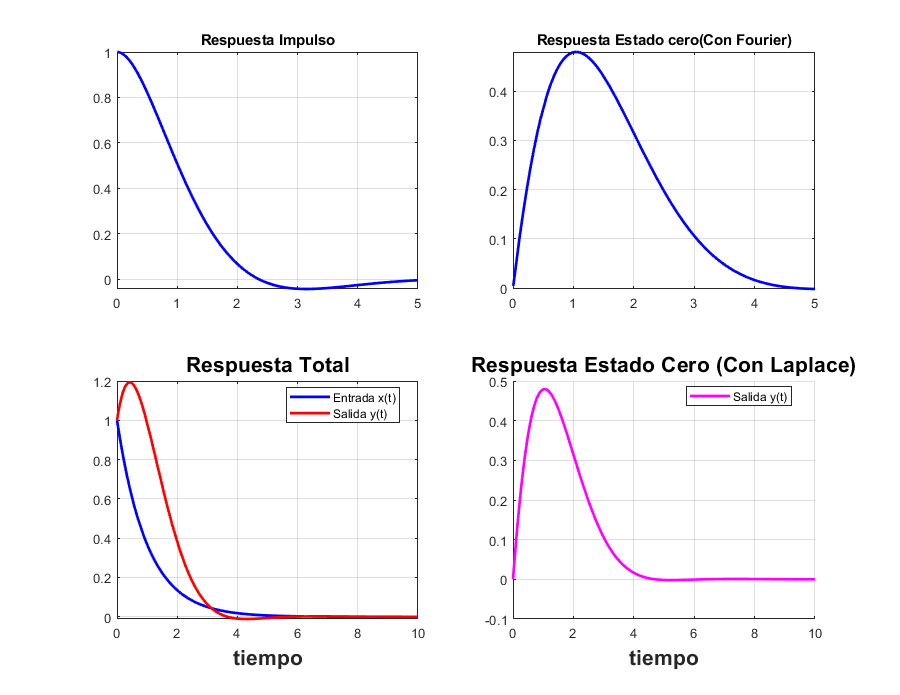
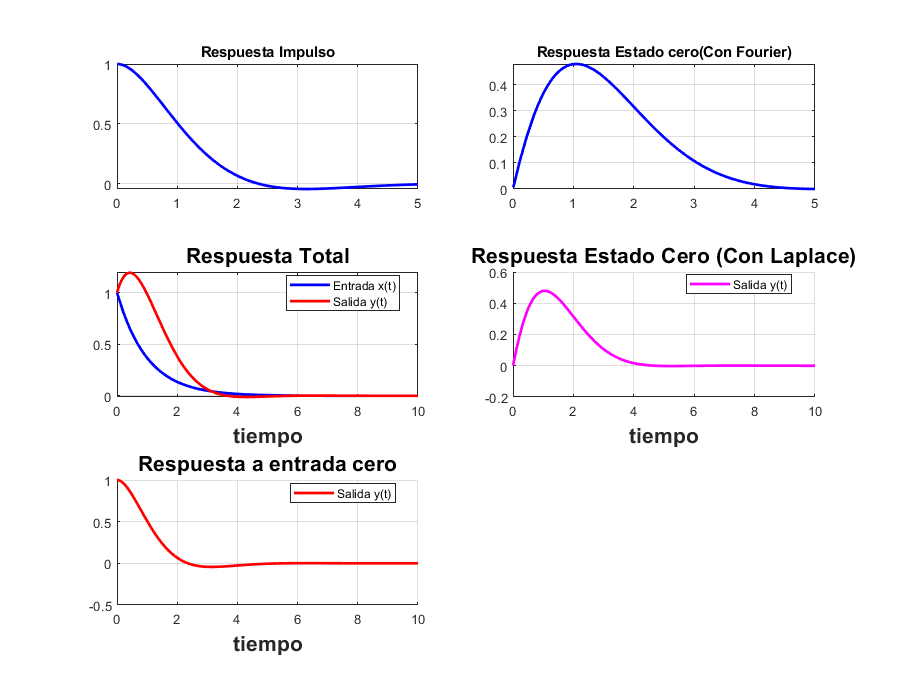
.

diff --git a/SySPrac06KarlaCordova_CristianAcosta.html b/SySPrac06KarlaCordova_CristianAcosta.html
@@ -6,7 +6,7 @@
    <!--
 This HTML was auto-generated from MATLAB code.
 To make changes, update the MATLAB code and republish this document.
-      --><title>Pr&aacute;ctica 6: Sistemas Diferenciales</title><meta name="generator" content="MATLAB 9.3"><link rel="schema.DC" href="http://purl.org/dc/elements/1.1/"><meta name="DC.date" content="2019-05-21"><meta name="DC.source" content="SySPrac06KarlaCordova_CristianAcosta.m"><style type="text/css">
+      --><title>Pr&aacute;ctica 6: Sistemas Diferenciales</title><meta name="generator" content="MATLAB 9.3"><link rel="schema.DC" href="http://purl.org/dc/elements/1.1/"><meta name="DC.date" content="2019-05-22"><meta name="DC.source" content="SySPrac06KarlaCordova_CristianAcosta.m"><style type="text/css">
 html,body,div,span,applet,object,iframe,h1,h2,h3,h4,h5,h6,p,blockquote,pre,a,abbr,acronym,address,big,cite,code,del,dfn,em,font,img,ins,kbd,q,s,samp,small,strike,strong,sub,sup,tt,var,b,u,i,center,dl,dt,dd,ol,ul,li,fieldset,form,label,legend,table,caption,tbody,tfoot,thead,tr,th,td{margin:0;padding:0;border:0;outline:0;font-size:100%;vertical-align:baseline;background:transparent}body{line-height:1}ol,ul{list-style:none}blockquote,q{quotes:none}blockquote:before,blockquote:after,q:before,q:after{content:'';content:none}:focus{outine:0}ins{text-decoration:none}del{text-decoration:line-through}table{border-collapse:collapse;border-spacing:0}
 
 html { min-height:100%; margin-bottom:1px; }
@@ -66,7 +66,7 @@ table td { padding:7px 5px; text-align:left; vertical-align:top; border:1px soli
 
 
 
-  </style></head><body><div class="content"><h1>Pr&aacute;ctica 6: Sistemas Diferenciales</h1><!--introduction--><p><b>Autores:</b></p><p><b>C&oacute;rdova Fern&aacute;ndez Karla Lilia, Acosta Villa Cristian Abraham.</b></p><p><b>SE&Ntilde;ALES Y SISTEMAS, Grupo 2TV1</b></p><!--/introduction--><h2>Contents</h2><div><ul><li><a href="#1">Funciones usadas en esta pr&aacute;ctica.</a></li><li><a href="#2">Programa para soluci&oacute;n de problemas diferenciales.</a></li><li><a href="#4">Respuesta a entrada y estado cero</a></li><li><a href="#5">Referencias.</a></li></ul></div><h2 id="1">Funciones usadas en esta pr&aacute;ctica.</h2><h2 id="2">Programa para soluci&oacute;n de problemas diferenciales.</h2><p>Ejemplo: resolver y^(2)+2y^(1)+2y=x^(1)+2x con y^(1)(0)=0 y(0)=0, x(0)=0, x(t)=exp(-t)u(t), para 5 segundos,</p><p>Con ayuda de Fourier:</p><pre class="codeinput">sympref(<span class="string">'HeavisideAtOrigin'</span>, 1);
+  </style></head><body><div class="content"><h1>Pr&aacute;ctica 6: Sistemas Diferenciales</h1><!--introduction--><p><b>Autores:</b></p><p><b>C&oacute;rdova Fern&aacute;ndez Karla Lilia, Acosta Villa Cristian Abraham.</b></p><p><b>SE&Ntilde;ALES Y SISTEMAS, Grupo 2TV1</b></p><!--/introduction--><h2>Contents</h2><div><ul><li><a href="#1">Funciones usadas en esta pr&aacute;ctica.</a></li><li><a href="#2">Programa para soluci&oacute;n de problemas diferenciales.</a></li><li><a href="#4">Respuesta a entrada y estado cero y entrada total.</a></li><li><a href="#6">Referencias.</a></li></ul></div><h2 id="1">Funciones usadas en esta pr&aacute;ctica.</h2><h2 id="2">Programa para soluci&oacute;n de problemas diferenciales.</h2><p>Ejemplo: resolver y^(2)+2y^(1)+2y=x^(1)+2x con y^(1)(0)=0 y(0)=0, x(0)=0, x(t)=exp(-t)u(t), para 5 segundos,</p><p>Con ayuda de Fourier:</p><pre class="codeinput">sympref(<span class="string">'HeavisideAtOrigin'</span>, 1);
 FT=0;
 RI=0;
 RE0=0;
@@ -80,11 +80,11 @@ hFig = figure(1);
 set(hFig, <span class="string">'Position'</span>, [0 0 900 900])
 axes1 = axes(<span class="string">'Parent'</span>,hFig,<span class="string">'FontWeight'</span>,<span class="string">'bold'</span>,<span class="string">'FontSize'</span>,16);
 tiempo=0:0.01:t0;
-subplot(2,2,1);
+subplot(3,2,1);
 fplot(RI,[0 t0],<span class="string">'b'</span>,<span class="string">'LineWidth'</span>,2)
 title(<span class="string">'Respuesta Impulso'</span>);
 grid <span class="string">on</span>
-subplot(2,2,2);
+subplot(3,2,2);
 fplot(RE0,[0 t0],<span class="string">'b'</span>,<span class="string">'LineWidth'</span>,2)
 title(<span class="string">'Respuesta Estado cero(Con Fourier)'</span>);
 grid <span class="string">on</span>
@@ -199,8 +199,9 @@ where
    #4 == exp(t (- 1 - i))
 
 
-</pre><h2 id="4">Respuesta a entrada y estado cero</h2><p>Para obtener la respuesta a estado cero, las condiciones iniciales tienen que ser igual a 0, es decir:</p><p><img src="SySPrac06KarlaCordova_CristianAcosta_eq16365273150764432466.png" alt="$$ y(0) = 0, y'(0) = 0 , y''(0) = 0 ... y^{n}(0) = 0 $$"></p><p>En este caso quedaria de la siguiente manera:</p><pre class="codeinput"><span class="keyword">function</span> laplace20161(a,b,ciy,cix,xi,t0)
+</pre><h2 id="4">Respuesta a entrada y estado cero y entrada total.</h2><p>Respuesta Estado cero</p><p>Para obtener la respuesta a estado cero, las condiciones iniciales tienen que ser igual a 0, es decir:</p><p><img src="SySPrac06KarlaCordova_CristianAcosta_eq16365273150764432466.png" alt="$$ y(0) = 0, y'(0) = 0 , y''(0) = 0 ... y^{n}(0) = 0 $$"></p><p>Respuesta Entrada cero</p><p>Por definici&oacute;n, la respuesta a entrada cero quiere decir que no tenemos ninguna entrada al sistema, por lo que quedar&iacute;a de la siguiente manera.</p><p><img src="SySPrac06KarlaCordova_CristianAcosta_eq05144310611940280709.png" alt="$$ y''(t)+2'y(t)+2y = 0 $$, con $$ y(0-) = 1 $$ y $$ y(0)=0 $$"></p><p>Respuesta Total</p><p>Para la respuesta total la entrada y/o las condiciones iniciales, deben ser diferentes de cero (No todas las condiciones deben ser diferentes a cero, basta con que una sea diferente para hablar de Respuesta Total, si es el caso).</p><pre class="codeinput"><span class="keyword">function</span> laplace20161(a,b,ciy,cix,xi,t0)
 
+<span class="comment">% Estado cero.</span>
 close <span class="string">all</span>
 tam2=size(a);
 tami2=size(b);
@@ -222,6 +223,8 @@ edi2=0;
        edi2=edi2-b(i)*(s^(i-1-k)*cix(k));
    <span class="keyword">end</span>
 <span class="keyword">end</span>
+mensaje(<span class="string">'1-. Estado cero'</span>)
+
 mensaje(<span class="string">'APLICAMOS TRANSFORMADA DE LAPLACE y subtituimos condiciones iniciales'</span>)
 
 pretty(edd2)
@@ -252,7 +255,7 @@ pretty(y2(t))
 dy(t)=diff(y2,t);
 ddy(t)=diff(dy,t);
 
-subplot(2,2,4)
+subplot(3,2,4)
 hold <span class="string">on</span>
 fplot(y2,[0,t0],<span class="string">'m'</span>,<span class="string">'LineWidth'</span>,2)
 legend(<span class="string">'Salida y(t)'</span>,<span class="string">'Location'</span>,<span class="string">'Best'</span>)
@@ -285,6 +288,9 @@ ciy=[1,0]
        edi=edi-b(i)*(s^(i-1-k)*cix(k));
    <span class="keyword">end</span>
 <span class="keyword">end</span>
+
+mensaje(<span class="string">'2-. Respuesta total'</span>)
+
 mensaje(<span class="string">'APLICAMOS TRANSFORMADA DE LAPLACE y subtituimos condiciones iniciales'</span>)
 
 pretty(edd)
@@ -309,20 +315,73 @@ pretty(edd)
 
 mensaje(<span class="string">'Aplicamos transformada inversa, asi la soluci&oacute;n es'</span>)
 disp(<span class="string">'y(t)='</span>)
-y(t)=ilaplace(edd);
-pretty(y(t))
+y3(t)=ilaplace(edd);
+pretty(y3(t))
 
-dy(t)=diff(y,t);
+dy(t)=diff(y3,t);
 ddy(t)=diff(dy,t);
-subplot(2,2,3)
+subplot(3,2,3)
 fplot(xi,[0, t0],<span class="string">'b'</span>,<span class="string">'LineWidth'</span>,2)
 
 hold <span class="string">on</span>
-fplot(y,[0,t0],<span class="string">'r'</span>,<span class="string">'LineWidth'</span>,2)
+fplot(y3,[0,t0],<span class="string">'r'</span>,<span class="string">'LineWidth'</span>,2)
 
 legend(<span class="string">'Entrada x(t)'</span>,<span class="string">'Salida y(t)'</span>,<span class="string">'Location'</span>,<span class="string">'Best'</span>)
 xlabel(<span class="string">'tiempo'</span>,<span class="string">'FontWeight'</span>,<span class="string">'bold'</span>,<span class="string">'FontSize'</span>,16)
 title(<span class="string">'Respuesta Total'</span>,<span class="string">'FontWeight'</span>,<span class="string">'bold'</span>,<span class="string">'FontSize'</span>,16)
+grid <span class="string">on</span>
+
+<span class="comment">% Entrada cero</span>
+<span class="comment">%</span>
+tam3=size(a);
+syms <span class="string">y(t)</span> <span class="string">Y(s)</span> <span class="string">x(t)</span> <span class="string">X(s)</span> <span class="string">Yy</span> <span class="string">fp</span>;
+syms <span class="string">edd</span> <span class="string">edi</span>
+edd3=0;
+edi3=0;
+
+<span class="keyword">for</span> i=1:tam3(2)
+   edd3=edd3+a(i)*s^(i-1)*Y(s);
+   <span class="keyword">for</span> k=1:i-1
+       edd3=edd3-a(i)*(s^(i-1-k)*ciy(k));
+   <span class="keyword">end</span>
+<span class="keyword">end</span>
+
+mensaje(<span class="string">'3-.Entrada Cero'</span>)
+
+mensaje(<span class="string">'APLICAMOS TRANSFORMADA DE LAPLACE y subtituimos condiciones iniciales'</span>)
+
+pretty(edd3)
+disp(<span class="string">'='</span>)
+
+mensaje(<span class="string">'SUBSTITUIMOS LA TRANSFORMADA DE LA ENTRADA'</span>)
+
+pretty(edd3)
+disp(<span class="string">'='</span>)
+
+mensaje(<span class="string">'DESPEJAMOS Y(s)'</span>)
+
+edd3=collect(edd3,Y(s));
+edd3=subs(edd3,Y(s),Yy);
+eq1=edd3==edi3;
+disp(<span class="string">'Y(s)='</span>)
+edd3=solve(eq1, Yy);
+pretty(edd3)
+
+mensaje(<span class="string">'Aplicamos transformada inversa, asi la soluci&oacute;n es'</span>)
+disp(<span class="string">'y(t)='</span>)
+y3(t)=ilaplace(edd3);
+pretty(y3(t))
+
+dy(t)=diff(y3,t);
+ddy(t)=diff(dy,t);
+subplot(3,2,5)
+
+hold <span class="string">on</span>
+fplot(y3,[0,t0],<span class="string">'r'</span>,<span class="string">'LineWidth'</span>,2)
+
+legend(<span class="string">'Salida y(t)'</span>,<span class="string">'Location'</span>,<span class="string">'Best'</span>)
+xlabel(<span class="string">'tiempo'</span>,<span class="string">'FontWeight'</span>,<span class="string">'bold'</span>,<span class="string">'FontSize'</span>,16)
+title(<span class="string">'Respuesta a entrada cero'</span>,<span class="string">'FontWeight'</span>,<span class="string">'bold'</span>,<span class="string">'FontSize'</span>,16)
 grid <span class="string">on</span>
 
 <span class="keyword">end</span>
@@ -333,6 +392,9 @@ disp(texto)
 disp( <span class="string">' '</span>)
 <span class="keyword">end</span>
 </pre><pre class="codeoutput"> 
+1-. Estado cero
+ 
+ 
 APLICAMOS TRANSFORMADA DE LAPLACE y subtituimos condiciones iniciales
  
                      2
@@ -373,6 +435,9 @@ ciy =
      1     0
 
  
+2-. Respuesta total
+ 
+ 
 APLICAMOS TRANSFORMADA DE LAPLACE y subtituimos condiciones iniciales
  
                          2
@@ -408,13 +473,45 @@ Aplicamos transformada inversa, asi la soluci&oacute;n es
 y(t)=
 exp(-t) + 2 exp(-t) sin(t)
 
+ 
+3-.Entrada Cero
+ 
+ 
+APLICAMOS TRANSFORMADA DE LAPLACE y subtituimos condiciones iniciales
+ 
+                         2
+2 Y(s) - s + 2 s Y(s) + s  Y(s) - 2
+
+=
+ 
+SUBSTITUIMOS LA TRANSFORMADA DE LA ENTRADA
+ 
+                         2
+2 Y(s) - s + 2 s Y(s) + s  Y(s) - 2
+
+=
+ 
+DESPEJAMOS Y(s)
+ 
+Y(s)=
+    s + 2
+------------
+ 2
+s  + 2 s + 2
+
+ 
+Aplicamos transformada inversa, asi la soluci&oacute;n es
+ 
+y(t)=
+exp(-t) (cos(t) + sin(t))
+
 FUNCI&Oacute;N DE TRANSFERENCIA:
     2 + w 1i
 ---------------
    2
 - w  + w 2i + 2
 
-</pre><img vspace="5" hspace="5" src="SySPrac06KarlaCordova_CristianAcosta_01.png" alt=""> <h2 id="5">Referencias.</h2><div><ul><li>B.P. Lathi. (2005). chapter 6.6. <i>Linear Systems and Signals</i>. E.U.A: Oxford University Press.</li></ul></div><p class="footer"><br><a href="http://www.mathworks.com/products/matlab/">Published with MATLAB&reg; R2017b</a><br></p></div><!--
+</pre><img vspace="5" hspace="5" src="SySPrac06KarlaCordova_CristianAcosta_01.png" alt=""> <h2 id="6">Referencias.</h2><div><ul><li>B.P. Lathi. (2005). chapter 6.6. <i>Linear Systems and Signals</i>. E.U.A: Oxford University Press.</li></ul></div><p class="footer"><br><a href="http://www.mathworks.com/products/matlab/">Published with MATLAB&reg; R2017b</a><br></p></div><!--
 ##### SOURCE BEGIN #####
 %% Práctica 6: Sistemas Diferenciales
 % *Autores:*
@@ -449,11 +546,11 @@ hFig = figure(1);
 set(hFig, 'Position', [0 0 900 900])
 axes1 = axes('Parent',hFig,'FontWeight','bold','FontSize',16);
 tiempo=0:0.01:t0;
-subplot(2,2,1);
+subplot(3,2,1);
 fplot(RI,[0 t0],'b','LineWidth',2)
 title('Respuesta Impulso');
 grid on
-subplot(2,2,2);
+subplot(3,2,2);
 fplot(RE0,[0 t0],'b','LineWidth',2)
 title('Respuesta Estado cero(Con Fourier)');
 grid on
@@ -462,17 +559,33 @@ disp('FUNCIÓN DE TRANSFERENCIA:')
 pretty(FT)
 
 
-%% Respuesta a entrada y estado cero
+%% Respuesta a entrada y estado cero y entrada total.
+%
+% Respuesta Estado cero
 %
 % Para obtener la respuesta a estado cero, las condiciones iniciales tienen
 % que ser igual a 0, es decir:
 %
 % $$ y(0) = 0, y'(0) = 0 , y''(0) = 0 ... y^{n}(0) = 0 $$
 %
-% En este caso quedaria de la siguiente manera:
+% Respuesta Entrada cero
 %
+% Por definición, la respuesta a entrada cero quiere decir que no tenemos
+% ninguna entrada al sistema, por lo que quedaría de la siguiente manera.
+%
+% $$ y''(t)+2'y(t)+2y = 0 $$, con $$ y(0-) = 1 $$ y $$ y(0)=0 $$
+%
+% Respuesta Total
+%
+% Para la respuesta total la entrada y/o las condiciones iniciales,
+% deben ser diferentes de cero (No todas las condiciones deben ser
+% diferentes a cero, basta con que una sea diferente para hablar de
+% Respuesta Total, si es el caso).
+%
+%%
 function laplace20161(a,b,ciy,cix,xi,t0)
 
+% Estado cero.
 close all
 tam2=size(a);
 tami2=size(b);
@@ -494,6 +607,8 @@ for i=1:tami2(2)
        edi2=edi2-b(i)*(s^(i-1-k)*cix(k));
    end
 end
+mensaje('1-. Estado cero')
+
 mensaje('APLICAMOS TRANSFORMADA DE LAPLACE y subtituimos condiciones iniciales')
 
 pretty(edd2)
@@ -524,7 +639,7 @@ pretty(y2(t))
 dy(t)=diff(y2,t);
 ddy(t)=diff(dy,t);
 
-subplot(2,2,4)
+subplot(3,2,4)
 hold on
 fplot(y2,[0,t0],'m','LineWidth',2)
 legend('Salida y(t)','Location','Best')
@@ -557,6 +672,9 @@ for i=1:tami(2)
        edi=edi-b(i)*(s^(i-1-k)*cix(k));
    end
 end
+
+mensaje('2-. Respuesta total')
+
 mensaje('APLICAMOS TRANSFORMADA DE LAPLACE y subtituimos condiciones iniciales')
 
 pretty(edd)
@@ -581,20 +699,73 @@ pretty(edd)
 
 mensaje('Aplicamos transformada inversa, asi la solución es')
 disp('y(t)=')
-y(t)=ilaplace(edd);
-pretty(y(t))
+y3(t)=ilaplace(edd);
+pretty(y3(t))
 
-dy(t)=diff(y,t);
+dy(t)=diff(y3,t);
 ddy(t)=diff(dy,t);
-subplot(2,2,3)
+subplot(3,2,3)
 fplot(xi,[0, t0],'b','LineWidth',2)
 
 hold on
-fplot(y,[0,t0],'r','LineWidth',2)
+fplot(y3,[0,t0],'r','LineWidth',2)
 
 legend('Entrada x(t)','Salida y(t)','Location','Best')
 xlabel('tiempo','FontWeight','bold','FontSize',16)
 title('Respuesta Total','FontWeight','bold','FontSize',16)
+grid on
+
+% Entrada cero 
+%
+tam3=size(a);
+syms y(t) Y(s) x(t) X(s) Yy fp;
+syms edd edi 
+edd3=0;
+edi3=0;
+
+for i=1:tam3(2)
+   edd3=edd3+a(i)*s^(i-1)*Y(s);
+   for k=1:i-1
+       edd3=edd3-a(i)*(s^(i-1-k)*ciy(k));
+   end
+end
+
+mensaje('3-.Entrada Cero')
+
+mensaje('APLICAMOS TRANSFORMADA DE LAPLACE y subtituimos condiciones iniciales')
+
+pretty(edd3)
+disp('=')
+
+mensaje('SUBSTITUIMOS LA TRANSFORMADA DE LA ENTRADA')
+
+pretty(edd3)
+disp('=')
+
+mensaje('DESPEJAMOS Y(s)')
+
+edd3=collect(edd3,Y(s));
+edd3=subs(edd3,Y(s),Yy);
+eq1=edd3==edi3;
+disp('Y(s)=')
+edd3=solve(eq1, Yy);
+pretty(edd3)
+
+mensaje('Aplicamos transformada inversa, asi la solución es')
+disp('y(t)=')
+y3(t)=ilaplace(edd3);
+pretty(y3(t))
+
+dy(t)=diff(y3,t);
+ddy(t)=diff(dy,t);
+subplot(3,2,5)
+
+hold on
+fplot(y3,[0,t0],'r','LineWidth',2)
+
+legend('Salida y(t)','Location','Best')
+xlabel('tiempo','FontWeight','bold','FontSize',16)
+title('Respuesta a entrada cero','FontWeight','bold','FontSize',16)
 grid on
 
 end
